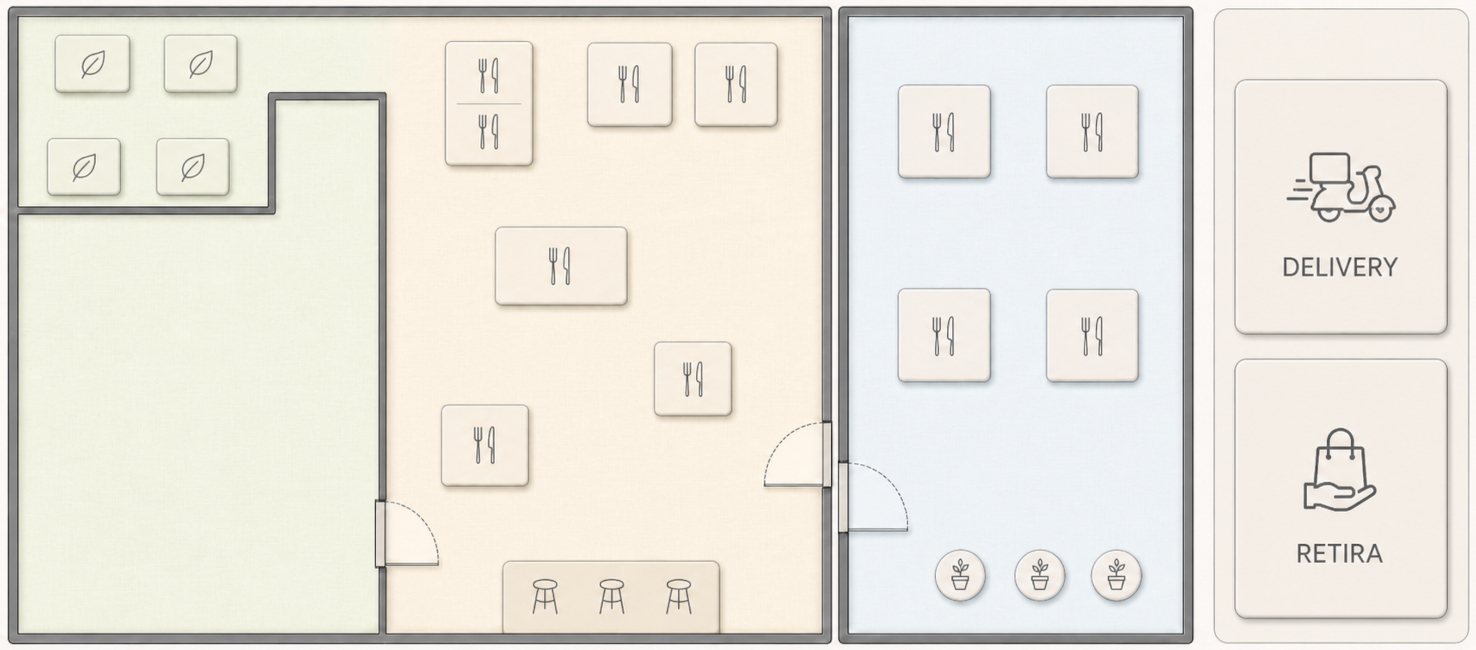
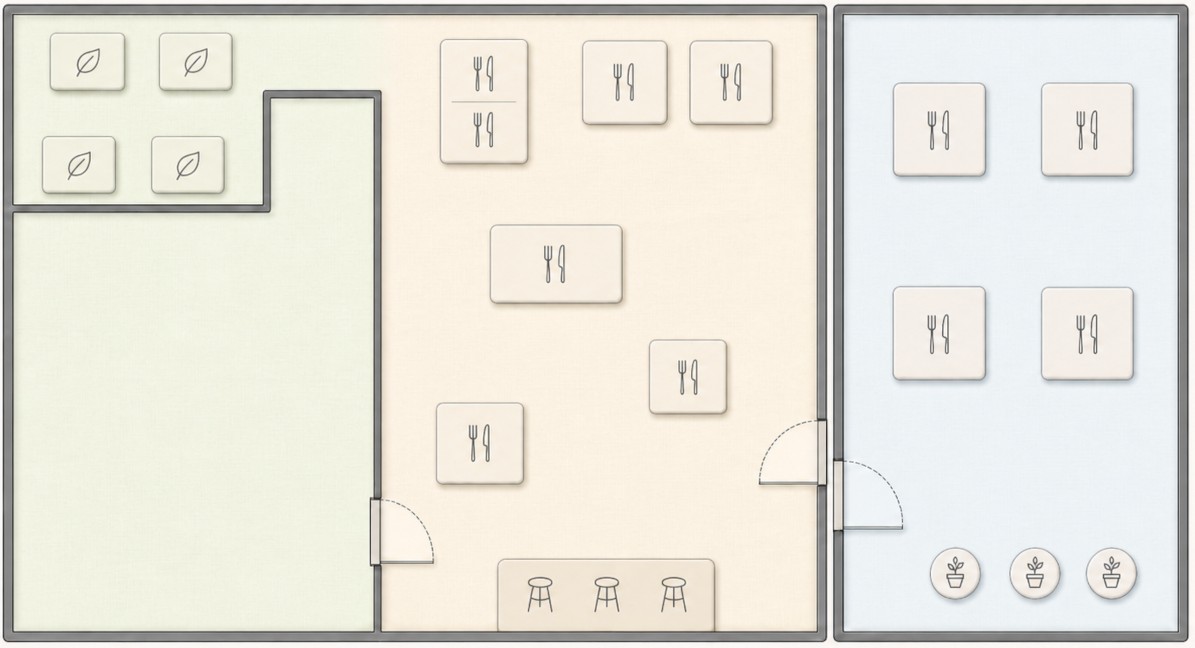
soft reset working

Changed region(s): [[0.0, 0.0, 1.0, 1.0], [0.8669, 0.6481, 0.9289, 0.8025]]

diff --git a/addons/clean_data.py b/addons/clean_data.py
@@ -1,0 +1,115 @@
+print("=" * 60)
+print("  Pizzeria El Gordo - Cleaning imported data")
+print("=" * 60)
+
+# ── 1. Close and delete POS sessions ──────────────────────
+print("\n[1/9] Closing and deleting POS sessions...")
+sessions = env['pos.session'].search([])
+for s in sessions:
+    if s.state != 'closed':
+        try:
+            s.action_pos_session_closing_control()
+            s.action_pos_session_close()
+        except Exception:
+            pass
+n_sessions = len(sessions)
+sessions.unlink()
+env.cr.commit()
+print(f"  Deleted {n_sessions} POS sessions")
+
+# POS orders
+orders = env['pos.order'].search([])
+n_orders = len(orders)
+orders.unlink()
+env.cr.commit()
+print(f"  Deleted {n_orders} POS orders")
+
+# ── 2. Delete restaurant tables ────────────────────────────
+print("\n[2/9] Deleting restaurant tables...")
+tables = env['restaurant.table'].search([])
+n_tables = len(tables)
+tables.unlink()
+env.cr.commit()
+print(f"  Deleted {n_tables} tables")
+
+# ── 3. Delete restaurant floors ────────────────────────────
+print("\n[3/9] Deleting restaurant floors...")
+floors = env['restaurant.floor'].search([])
+n_floors = len(floors)
+floors.unlink()
+env.cr.commit()
+print(f"  Deleted {n_floors} floors")
+
+# ── 4. Delete stock quants (inventory adjustments) ─────────
+print("\n[4/9] Deleting stock quants...")
+quants = env['stock.quant'].search([])
+n_quants = len(quants)
+quants.unlink()
+env.cr.commit()
+print(f"  Deleted {n_quants} stock quants")
+
+# ── 5. Delete Bills of Materials ───────────────────────────
+print("\n[5/9] Deleting Bills of Materials...")
+boms = env['mrp.bom'].search([])
+n_boms = len(boms)
+boms.unlink()
+env.cr.commit()
+print(f"  Deleted {n_boms} BoMs")
+
+# ── 6. Delete POS categories ───────────────────────────────
+print("\n[6/9] Deleting POS categories...")
+POS_CAT_NAMES = [
+    'Empanadas', '[S] Empanadas', 'Pizzas', '[S] Pizzas',
+    'Mitades', '[S] Mitades', 'Cerveza', 'Bebidas', 'Delivery',
+]
+for name in POS_CAT_NAMES:
+    cats = env['pos.category'].search([('name', '=', name)])
+    if cats:
+        n = len(cats)
+        cats.unlink()
+        print(f"  Deleted pos.category: {name} ({n})")
+    else:
+        print(f"  Not found: {name}")
+env.cr.commit()
+
+# ── 7. Delete products under our category tree ─────────────
+print("\n[7/9] Deleting products...")
+todos_cat = env['product.category'].search([('name', '=', 'Todos')], limit=1)
+if todos_cat:
+    child_cats = env['product.category'].search([('id', 'child_of', todos_cat.id)])
+    cat_ids = child_cats.ids
+    products = env['product.template'].search([('categ_id', 'in', cat_ids)])
+    n_prods = len(products)
+    products.unlink()
+    env.cr.commit()
+    print(f"  Deleted {n_prods} products in our categories")
+else:
+    print("  WARNING: 'Todos' category not found, nothing deleted")
+
+# ── 8. Delete custom product categories ────────────────────
+print("\n[8/9] Deleting custom product categories...")
+if todos_cat:
+    cats = env['product.category'].search(
+        [('id', 'child_of', todos_cat.id)],
+        order='parent_path desc'
+    )
+    n_cats = len(cats)
+    cats.unlink()
+    env.cr.commit()
+    print(f"  Deleted {n_cats} categories")
+else:
+    print("  Nothing to delete")
+
+# ── 9. Delete custom UoMs ──────────────────────────────────
+print("\n[9/9] Deleting custom UoMs...")
+pinta = env['uom.uom'].search([('name', '=', 'Pinta')])
+if pinta:
+    pinta.unlink()
+    env.cr.commit()
+    print("  Deleted UoM: Pinta")
+else:
+    print("  UoM Pinta not found")
+
+print("\n" + "=" * 60)
+print("  Data clean complete — ready for re-import")
+print("=" * 60)

diff --git a/addons/setup_floors.py b/addons/setup_floors.py
@@ -141,8 +141,7 @@ all_tables = [
     (15, 898, 285, 95, 94, 'square', '15'),
     (16, 1046, 290, 92, 92, 'square', '16'),
     # --- SPECIAL BUTTONS (Far Right) ---
-    (777, 1231, 78, 218, 155, 'square', 'RETIRA'),
-    (0, 1235, 359, 214, 169, 'square', 'DELIVERY'),
+
 ]
 
 for table_num, pos_x, pos_y, width, height, shape, identifier in all_tables:
